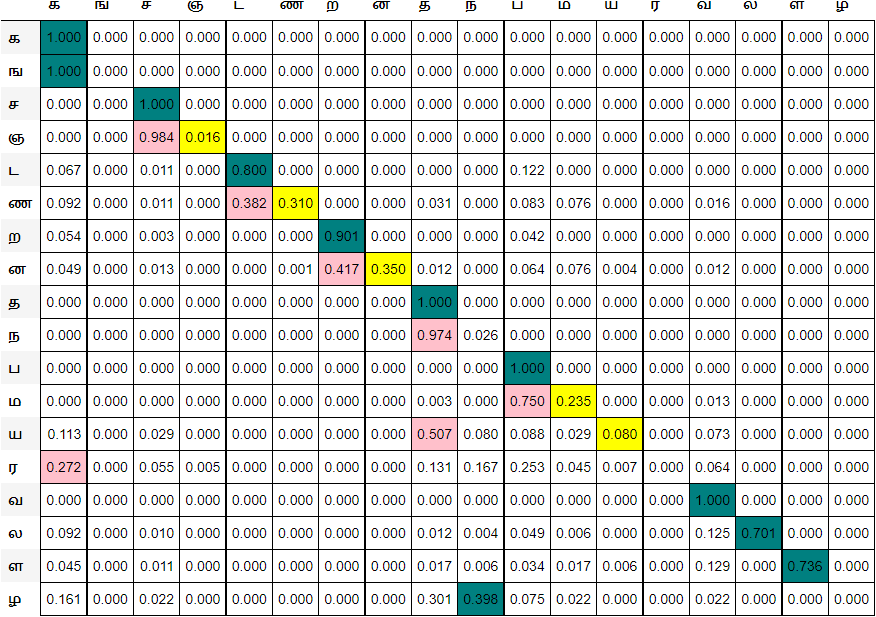
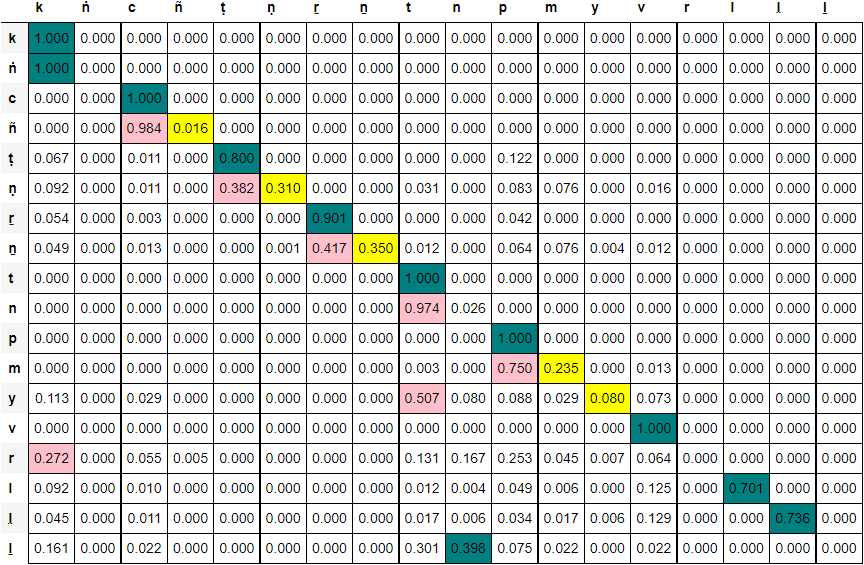
* IAST for row col labels * changed order of consonants

diff --git a/mayal.py b/mayal.py
@@ -13,8 +13,9 @@ files = PlaintextCorpusReader(root, ".*")
 punct = re.compile("[\'\]\-\:\[\,!\.\=\*\);]")
 dropper = re.compile("[\d\(]")
 pulli = '\u0BCD'
-con = ['க','ங','ச','ஞ','ட', 'ண','ற','ன','த','ந','ப','ம','ய','ர','வ','ல', 'ள','ழ']
-cons = ['க்', 'ங்', 'ச்' , 'ஞ்', 'ட்', 'ண்', 'த்', 'ந்', 'ப்', 'ம்', 'ய்', 'ர்', 'வ்', 'ல்', 'ள்', 'ழ்', 'ற்','ன்']
+con = ['க', 'ங', 'ச', 'ஞ', 'ட', 'ண', 'ற', 'ன', 'த', 'ந', 'ப', 'ம', 'ய', 'வ', 'ர', 'ல', 'ள', 'ழ']
+cons = ['க்', 'ங்', 'ச்' , 'ஞ்', 'ட்', 'ண்', 'ற்', 'ன்', 'த்', 'ந்', 'ப்', 'ம்', 'ய்', 'வ்', 'ர்', 'ல்', 'ள்', 'ழ்']
+iast = {'க' : 'k', 'ங': 'ṅ', 'ச': 'c', 'ஞ': 'ñ', 'ட': 'ṭ', 'ண': 'ṇ', 'ற': 'ṟ', 'ன': 'ṉ', 'த': 't', 'ந': 'n', 'ப': 'p', 'ம': 'm', 'ய': 'y', 'வ': 'v', 'ர': 'r', 'ல': 'l', 'ள': 'l̤', 'ழ': 'ḻ'}
 
 class MayalProcessor:
     def max_likelihood(self, s: pd.Series):
@@ -51,6 +52,7 @@ class MayalProcessor:
             ret = [css.loc[i, s.name] for i in s.index]
             return ret
 
+        print("Processing " + work)
         sents = []
         text = root + work + ".txt"
         with open(text, encoding="utf8") as input:
@@ -61,7 +63,7 @@ class MayalProcessor:
                     sents.append(sent)
 
 
-        cfd = nltk.ConditionalFreqDist((con1, con2)
+        cfd = nltk.ConditionalFreqDist((iast[con1], iast[con2])
         for con1 in con
         for con2 in con
         for sent in sents
